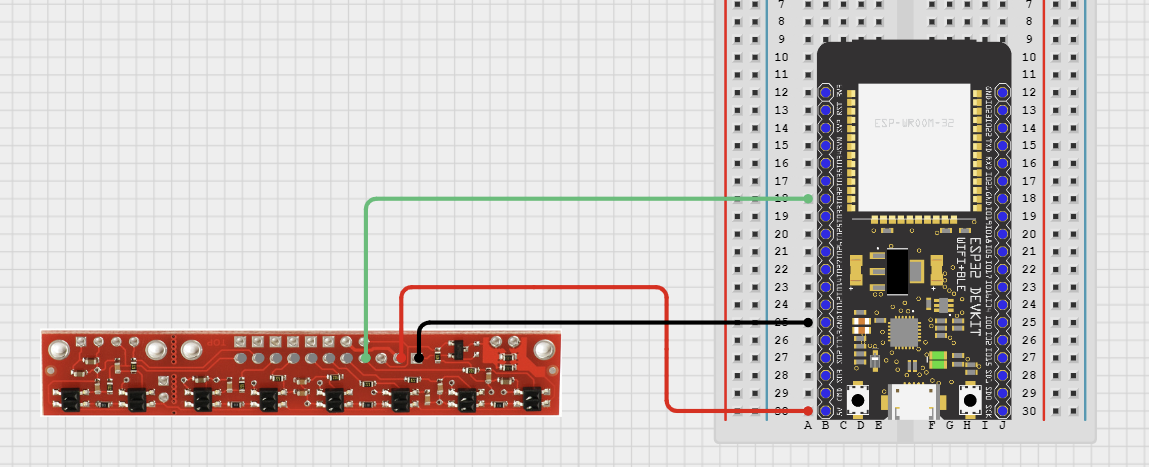
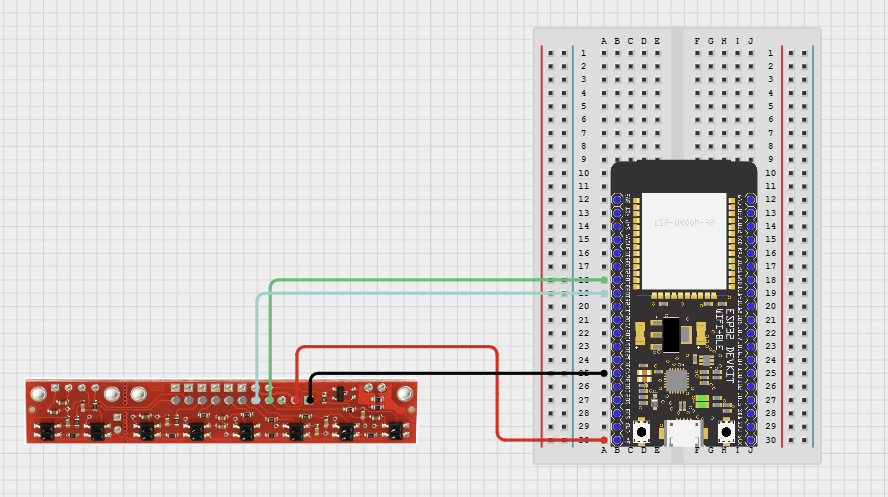
idk alot

Changed region(s): [[0.0304, 0.0, 0.973, 0.9593]]

diff --git a/docs/_sections/_guide-primaries/sensors-and-actuators/color-sensors.md b/docs/_sections/_guide-primaries/sensors-and-actuators/color-sensors.md
@@ -25,9 +25,9 @@ The APDS-9960 Color Sensor will allow you to complete the Color Challenge.
 
 
 ## How it Works
-The RGB (Red Green Blue) sensor has an infrared LED light that detects color by emitting light and detecting with four photodiodes the reflected light. The photodiodoes are each filtered to sense the Red, Green, Blue, and Clear color components. The RGB provides the R G and B data in integer values of 0-255 (8 bit representation). We will grab that data using a communication protocol called I2C (Inter-integrated circuit), which is used in many electrical devices. Implementing I2C is out of the scope of this competition, but you can find more information about it [here.](https://learn.sparkfun.com/tutorials/i2c/all)
+The RGB (Red Green Blue) sensor has an infrared LED light that detects color by emitting light and detecting with four photodiodes the reflected light. The photodiodoes are each filtered to sense the Red, Green, Blue, and Clear color components. The RGB provides the R G and B strength in integer values of 0-255 (8 bit representation). We will grab that data using a communication protocol called I2C (inter-integrated circuit), which is used in many electrical devices. Implementing I2C on our own is out of the scope of this competition, but you can find more information about it [here.](https://learn.sparkfun.com/tutorials/i2c/all)
 
-For the competition, you will want to make sure you understand the RGB sensor also detect ambient light levels and proximity, so make sure your color sense is placed appropriately to successfully complete the color challenge.
+You will definitely want to keep in mind that the sensor is affected by ambient light levels and proximity, so make sure your color sensor is placed appropriately and has sufficient (external🤔?) lighting to successfully complete the color challenge.
 
 If you want more details on how the color sensor works, check out [this link!](https://www.utmel.com/components/everything-you-know-about-tcs34725-color-sensors-faq?id=1986)
 
@@ -46,16 +46,12 @@ If you're not sure about the ESP32 pinout, then check out [this page!](https://u
 
 {: .highlight}
 Make sure to connect the color sensor's power pin to 3.3V! A 5V connection will fry the sensor.
-{: .callout-blue}
+{: .callout-red}
 
 The SDA and SCL on the color sensor MUST be connected to the specified GPIO pins on the ESP32. This is because they are the dedicated pins for I2C commmunication.
 
-If you're not sure about the ESP32 pinout, then check out the diagram in [this page!](https://ut-ras.github.io/RobotathonESP32/getting-started/microcontroller-interface)
-
-
-
 ## Programming
-For this tutorial, we’re only going to be reading the RGB sensor values from the TCS34725. Make sure that your pins are correctly connected or otherwise you won’t receive the data!
+For this tutorial, we’re only going to be reading the color sensor values. Make sure that your pins are correctly connected or otherwise you won’t receive any data!
 
 ```cpp
 
@@ -86,19 +82,9 @@ void setup() {
 
 void loop() {
     int r, g, b, a;
-    // Wait until color is read from the sensor 
-    while (!apds.colorAvailable()) { delay(5); }
+    while (!apds.colorAvailable()) { delay(5); } // Wait until color is read from the sensor 
     apds.readColor(r, g, b, a);
-    // Read color from sensor apds.readColor(r, g, b, a);
-    // Print color in decimal 
-    Serial.print("RED: ");
-    Serial.print(r);
-    Serial.print(" GREEN: ");
-    Serial.print(g);
-    Serial.print(" BLUE: ");
-    Serial.print(b);
-    Serial.print(" AMBIENT: ");
-    Serial.println(a);
+    Console.printf("RED: %d GREEN: %d BLUE: %d AMBIENT: %d\n", r, g, b, a);
     delay(100);
 }
 ```

diff --git a/docs/_sections/_guide-primaries/sensors-and-actuators/line-sensors.md b/docs/_sections/_guide-primaries/sensors-and-actuators/line-sensors.md
@@ -25,7 +25,7 @@ You do NOT have to use all 8 of the LED/phototransistor pairs — You can leave 
 |:-------------|:------------------|
 | 5V | 5V                      |
 | GND         | GND      |
-| Signal      |  Any ADC Capable Pin (i.e. GPIO32)    |
+| Signal      |  Any ADC Capable Pin (i.e. GPIO32, GPIO33)    |
 
 If you're not sure about the ESP32 pinout, then check out [this page!](https://ut-ras.github.io/RobotathonESP32/getting-started/microcontroller-interface)
 
@@ -52,21 +52,19 @@ void setup() {
     // set up Serial Communication and sensor pins
     Serial.begin(115200);
     qtr.setTypeAnalog(); // or setTypeAnalog()
-    qtr.setSensorPins((const uint8_t[]) {33, 32}, 2); // pin numbers go in the curly brackets {}, and number of pins goes after
+    qtr.setSensorPins((const uint8_t[]) {32, 33}, 2); // pin numbers go in the curly brackets {}, and number of sensors in use goes after
 
     // calibration sequence
     for (uint8_t i = 0; i < 250; i++) { 
-        Serial.println("calibrating");
+        Console.printf("calibrating %d/250\n", i); // 250 is the number of calibrations recommended by manufacturer
         qtr.calibrate(); 
         delay(20);
     }
 }
 
 void loop() {
-    qtr.readLineBlack(sensors); // Get calibrated sensor values returned in the sensors array
-    Serial.print(sensors[0]);
-    Serial.print(" ");
-    Serial.println(sensors[1]);
+    qtr.readLineBlack(sensors); // Get calibrated sensor values returned into sensors[]
+    Console.printf("S1: %d S2: %d\n", sensors[0], sensors[1]);
     delay(250);
 }
 
@@ -80,6 +78,6 @@ TIP: Always calibrate your line sensor to ensure consistent and accurate results
 * What do you do with your robot when you detect a change?
 * Consistency in data collection is key for calibration
  * Can you automate the calibration process?
- * Can you use the super secret NVS functions to save and restore calibration data?
+ * Can you use the super secret NVS functions to save and restore calibration?
 
 

diff --git a/docs/_sections/_guide-primaries/sensors-and-actuators/ir-sensors.md b/docs/_sections/_guide-primaries/sensors-and-actuators/ir-sensors.md
@@ -54,12 +54,13 @@ void setup() {
 }
     
 void loop() {
-    Serial.println(IRSensorName.getDistanceFloat()); 
+    Console.println(IRSensorName.getDistanceFloat()); 
     delay(100);
 }
 ```
 
 ## Extensions
-You received values from the sensor, but do they mean anything? The next step for the IR sensor is translating and thresholding it. Take a look at the above graph. There is a strong linear relationship between your signal value and the distance away from the object. It’s your job now to code a function that returns an accurate distance given a voltage input value. After that, your team needs to threshold the data. When do the values become inconsistent (too close or too far)? What do you do with your robot when that happens?
+You received values from the sensor, but what do they mean? The next step for the IR sensor is translating and thresholding it. Take a look at the above graph. There is a strong linear relationship between your signal value and the distance away from the object. It’s your job now to code a function that returns an accurate distance given a voltage input value. After that, your team needs to threshold the data. When do the values become inconsistent (too close or too far)? What do you do with your robot when that happens?
 
+TODO review this extension thing and see if we want to make them actually calculate distance
 

diff --git a/docs/_sections/_guide-primaries/sensors-and-actuators/sensor-integration.md b/docs/_sections/_guide-primaries/sensors-and-actuators/sensor-integration.md
@@ -6,6 +6,7 @@ parent: Hardware
 nav_order: 6
 ---
 
+TODO: AXE
 # Sensor Integration
 
 Help! How do we put everything together?
